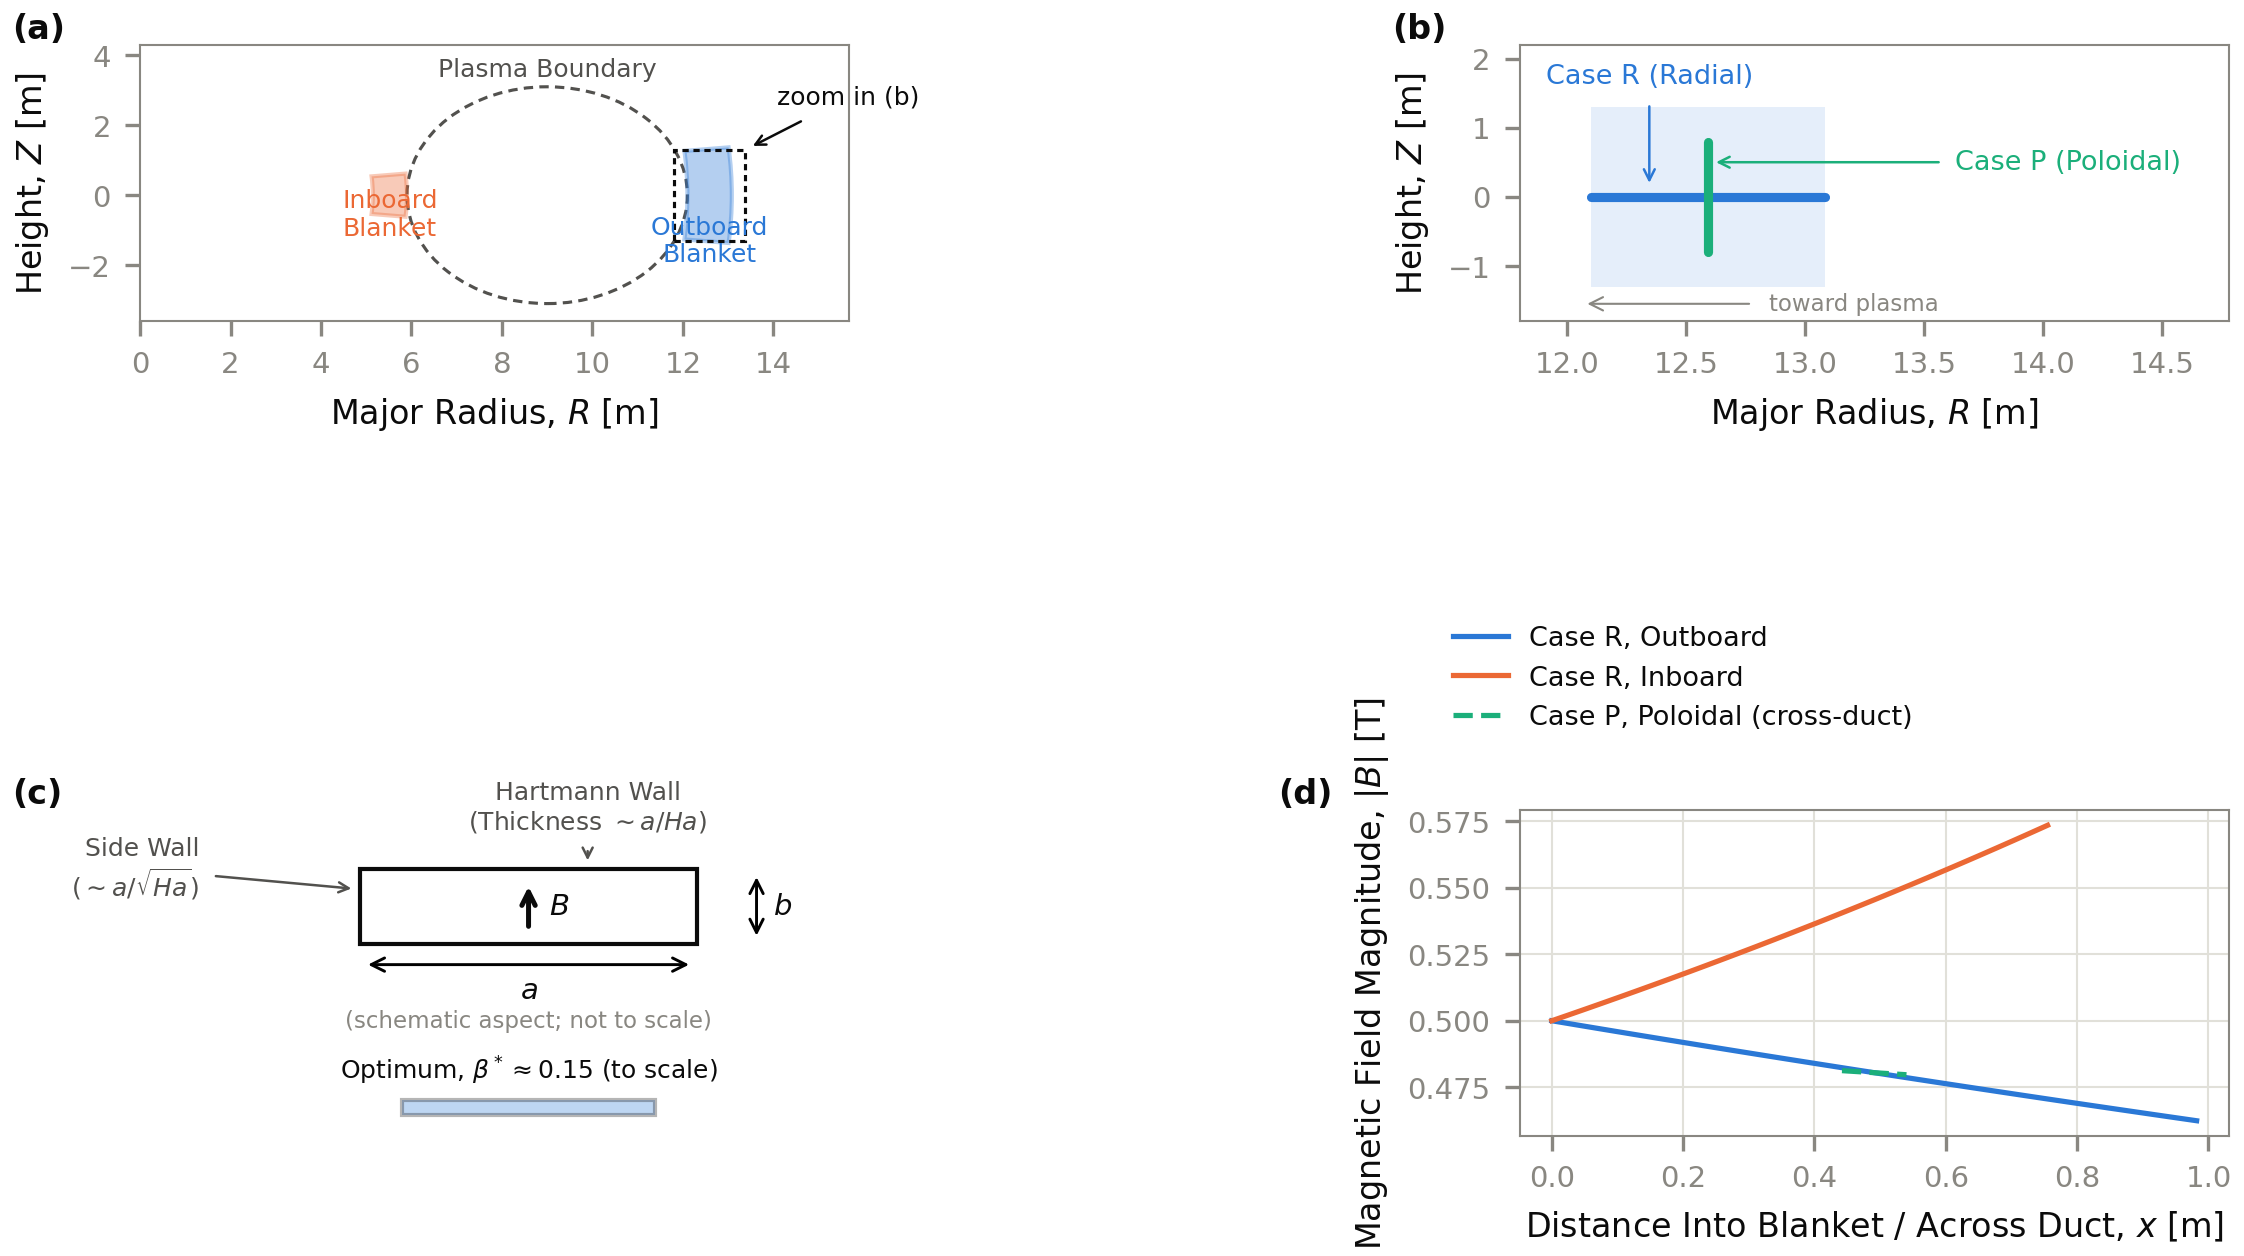
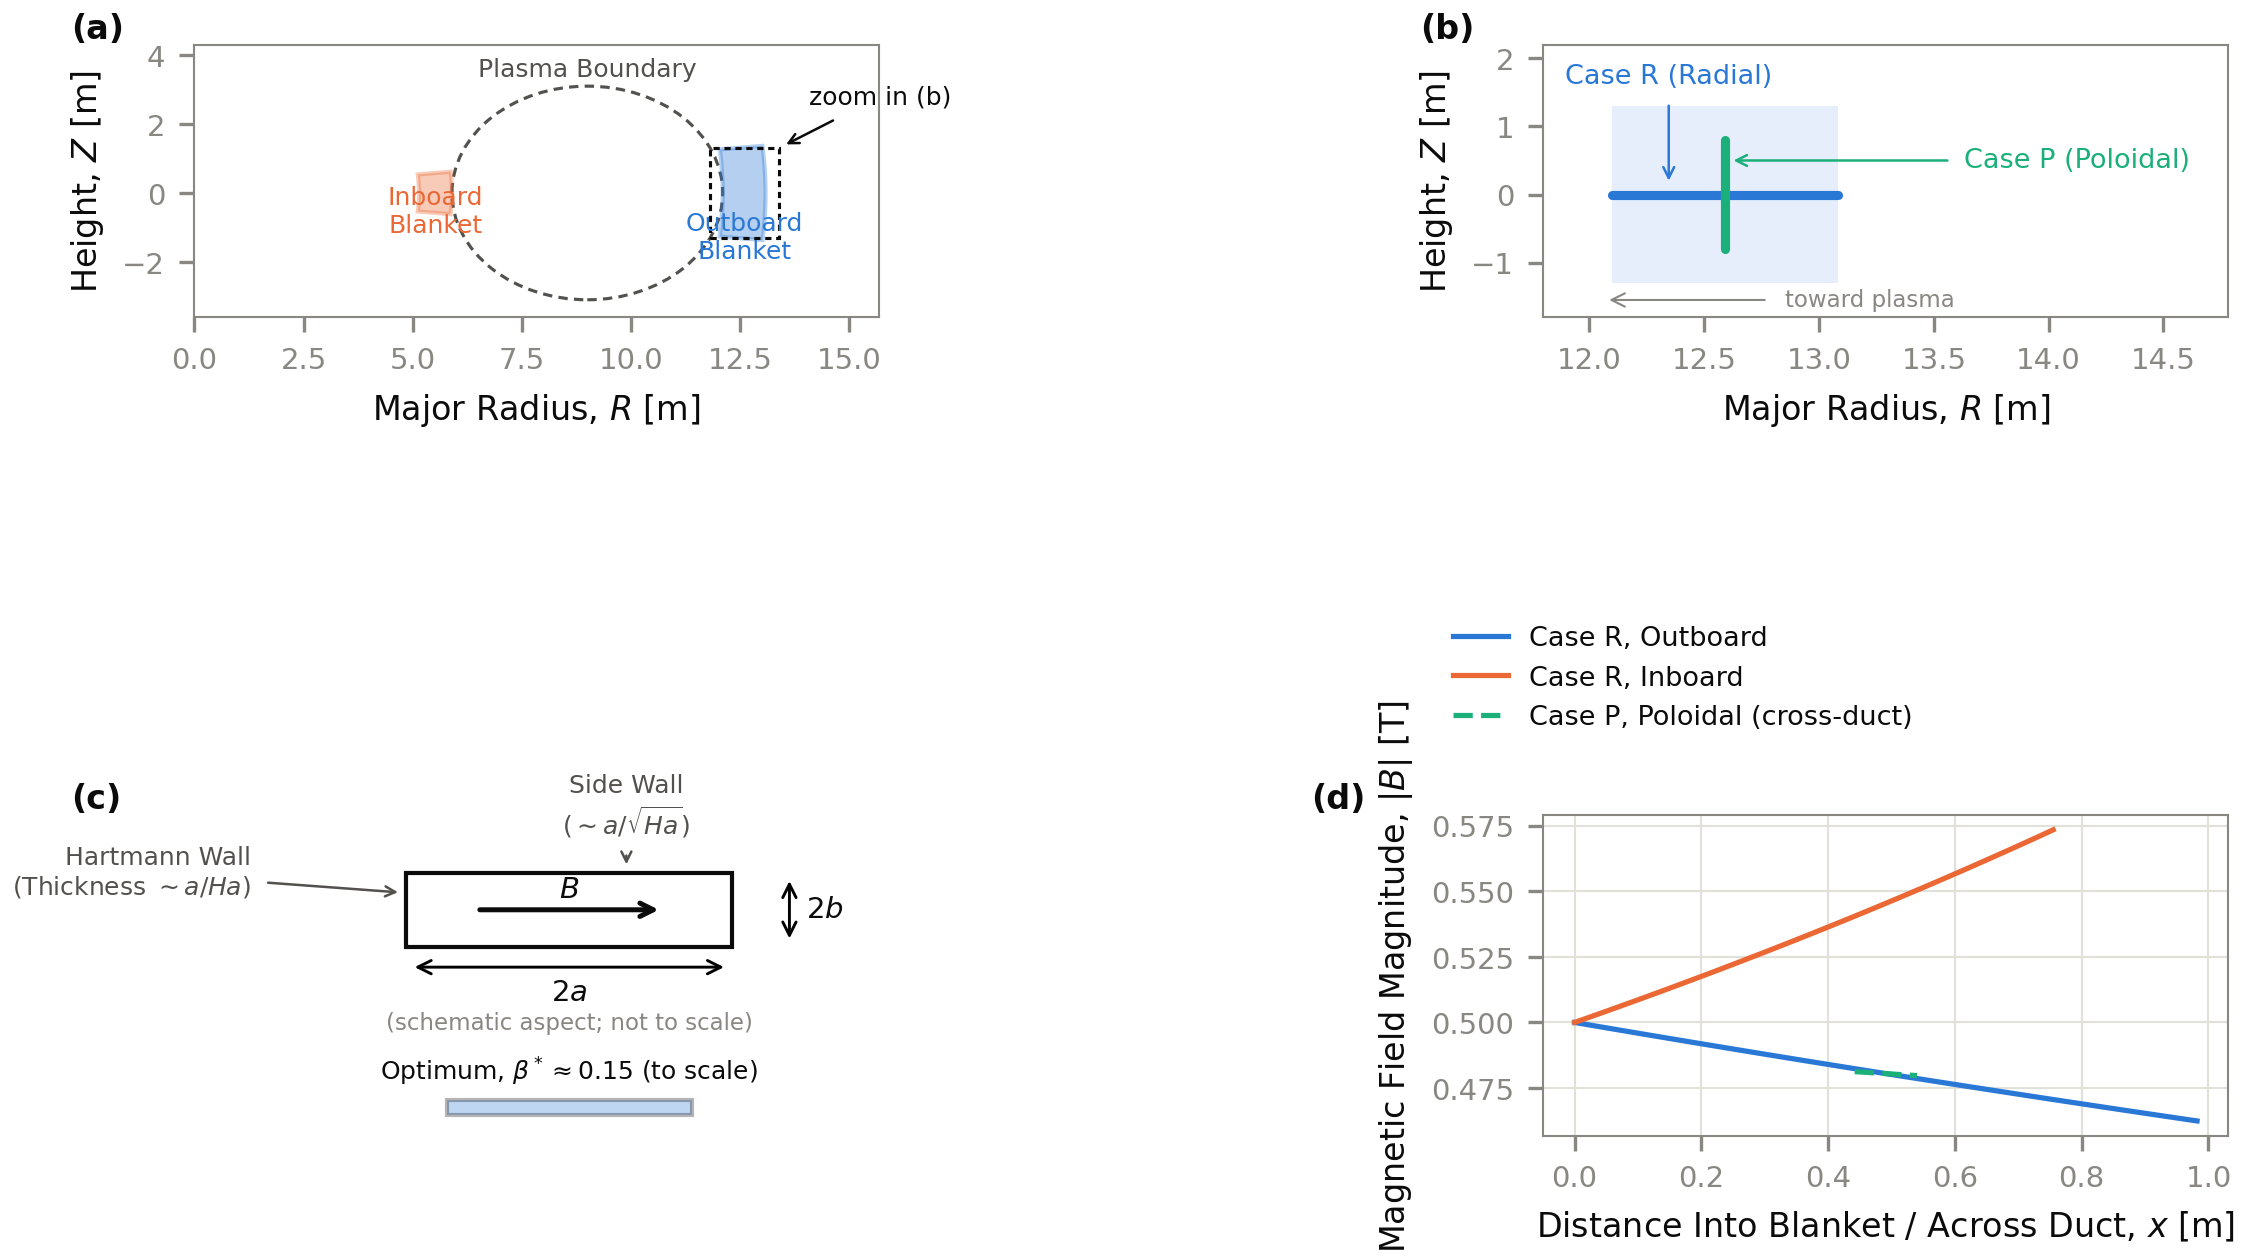
Fix three errors in the Stage 2 record: F1 panel (c), the F8 caption, and 0.37 -> 0.36 %
6 files changed, 16 insertions(+), 16 deletions(-). No result changes; no run repeated. The release stage2-v1 (6125eac) stays as published;
these corrections are on main after it.

1. F1 panel (c), the cross-section convention, drew the field B vertical while labelling the
   half-width a (along B) horizontal and drawing the to-scale optimum long and flat, which put the
   optimum's long side across the field. B now points along a (horizontal), so the Hartmann walls,
   normal to B, are the left and right walls and the side walls are top and bottom; the callouts
   follow. The dimension arrows span the full width, so they now read 2a and 2b (a and b are
   half-widths). Only F1_geometry.pdf/.png were regenerated; every other figure and table is
   unchanged (restored after the run, since a rerun rewrites PDF timestamps).
2. The Taylor-test panel of F8 is the outboard optimum at V_min = 2 mm/s (the first Pareto row),
   not the default point its caption named: fixed in duct_opt_figures.py, captions.md, README.md
   and report.html.
3. The largest change of beta* on re-optimizing from 48/6 to 72/9 cells is 0.36 % when computed
   from the stored values (Case R inboard, 2 mm/s); the README and report said 0.37 %, computed
   from rounded table entries. The 1 %-on-W and 3 %-on-beta* limits are unaffected.

diff --git a/results/stage2/report.html b/results/stage2/report.html
@@ -368,12 +368,12 @@
     <div class="kicker">04 — Verification</div>
     <h2>Mesh-converged and within 1% of an independent solver</h2>
     <p>The area gradient is exact (JAX autodiff through the traced <code>field_scale</code>). A Taylor remainder test [<a href="#ref-o10">O10</a>] confirms it at all 13 Pareto points: the zeroth-order remainder falls as <i class="v">O</i>(<i class="v">h</i>) and the gradient-corrected one as <i class="v">O</i>(<i class="v">h</i>²), with slopes of 1.00 and 2.00.</p>
-    <p>Re-optimized on 32/4, 48/6 and 72/9 cells (Table 5), every point converges at the observed order 2.00–2.01 for <i class="v">β</i>* and 1.93–1.97 for <i class="v">W</i>*, with a GCI on <i class="v">β</i>* of 0.19–0.36%. From 48/6 to 72/9, <i class="v">β</i>* moves at most 0.37% and <i class="v">W</i>* at most 0.44%, inside the registered limits of 3% and 1%. A separate check at each 48/6 optimum on 96/9 cells moves <i class="v">W</i> by 0.34–0.59%.</p>
+    <p>Re-optimized on 32/4, 48/6 and 72/9 cells (Table 5), every point converges at the observed order 2.00–2.01 for <i class="v">β</i>* and 1.93–1.97 for <i class="v">W</i>*, with a GCI on <i class="v">β</i>* of 0.19–0.36%. From 48/6 to 72/9, <i class="v">β</i>* moves at most 0.36% and <i class="v">W</i>* at most 0.44%, inside the registered limits of 3% and 1%. A separate check at each 48/6 optimum on 96/9 cells moves <i class="v">W</i> by 0.34–0.59%.</p>
     <p>Against the spectral reference, the core's <i class="v">W</i> at its own <i class="v">β</i>* is 0.48–0.79% low at all 11 verified points (limit 1%), worst at 2 mm/s; the reference's own <i class="v">β</i>* lies 0.15–0.3% below the 72/9 core's, consistent with the Richardson limit. For the design law, the reference is converged to 10⁻⁸ between 48 and 80 collocation points up to <i class="v">Ha</i>* 1,229, and between 64 and 80 points to 5×10⁻⁷ and 8×10⁻⁵ at 2,427 and 6,109.</p>
     <p>The tilt-aware law meets its own registered exits: from 48/6 to 72/9 cells <i class="v">β</i>* moves at most 0.66% and Δ<i class="v">p</i>* 0.68%; a dense spectral solve with both field components agrees with the core within 0.54% on 48/6 cells (<i class="v">Ha</i> 30–100, five cases); and the collapse holds within 5% against a 10% limit.</p>
     <figure>
       <img src="figures/F8_verification.png" alt="Taylor remainder test and the change on re-optimizing on a finer mesh">
-      <figcaption><b>Figure 9.</b> (a) Taylor test at Case R outboard's default optimum. (b) The change of <i class="v">W</i>* (solid) and <i class="v">β</i>* (dashed) when each Case R Pareto point is re-optimized from 48/6 to 72/9 cells; the limits are 1% and 3%.</figcaption>
+      <figcaption><b>Figure 9.</b> (a) Taylor test at Case R outboard's optimum for <i class="v">V</i><sub>min</sub> = 2 mm/s. (b) The change of <i class="v">W</i>* (solid) and <i class="v">β</i>* (dashed) when each Case R Pareto point is re-optimized from 48/6 to 72/9 cells; the limits are 1% and 3%.</figcaption>
     </figure>
     <div class="callout warn">
       <span class="tag">Two exits met only in part</span>

diff --git a/duct_opt_figures.py b/duct_opt_figures.py
@@ -305,22 +305,22 @@ def figure_f1(results: dict) -> None:
     ax.add_patch(plt.Rectangle((-half_a, -half_b), 2 * half_a, 2 * half_b, fill=False, ec=INK, lw=1.0))
     # b (height, across B): dimension line to the right of the duct
     ax.annotate("", xy=(1.35, -half_b), xytext=(1.35, half_b), arrowprops=dict(arrowstyle="<->", lw=0.7))
-    ax.text(1.45, 0, "$b$", va="center", ha="left", fontsize=7)
+    ax.text(1.45, 0, "$2b$", va="center", ha="left", fontsize=7)
     # a (width, along B): dimension line below the duct
     ax.annotate("", xy=(half_a, -0.85), xytext=(-half_a, -0.85), arrowprops=dict(arrowstyle="<->", lw=0.7))
-    ax.text(0, -1.02, "$a$", ha="center", va="top", fontsize=7)
-    # B direction: vertical arrow through the centre, label directly to its right at mid-height
+    ax.text(0, -1.02, "$2a$", ha="center", va="top", fontsize=7)
+    # B direction: along a (horizontal here), so the long side of the to-scale optimum below lies along B
     ax.annotate(
         "",
-        xy=(0, half_b * 0.75),
-        xytext=(0, -half_b * 0.75),
+        xy=(half_a * 0.6, 0),
+        xytext=(-half_a * 0.6, 0),
         arrowprops=dict(arrowstyle="->", lw=1.2, color=INK),
     )
-    ax.text(0.12, 0, "$B$", fontsize=7, va="center", ha="left")
-    # Hartmann walls (top, normal to B): callout above, with an arrowhead so it reads as
+    ax.text(0, 0.1, "$B$", fontsize=7, va="bottom", ha="center")
+    # side walls (top and bottom, parallel to B): callout above, with an arrowhead so it reads as
     # "pointing at the wall", not a stray line
     ax.annotate(
-        "Hartmann Wall\n(Thickness $\\sim a/Ha$)",
+        "Side Wall\n($\\sim a/\\sqrt{Ha}$)",
         xy=(0.35, half_b),
         xytext=(0.35, 1.05),
         ha="center",
@@ -329,9 +329,9 @@ def figure_f1(results: dict) -> None:
         color=INK_SECONDARY,
         arrowprops=dict(arrowstyle="->", lw=0.6, color=INK_SECONDARY),
     )
-    # side walls: callout to the LEFT (the b-dimension arrow already occupies the right side)
+    # Hartmann walls (left and right, normal to B): callout to the LEFT (the b-dimension arrow occupies the right)
     ax.annotate(
-        "Side Wall\n($\\sim a/\\sqrt{Ha}$)",
+        "Hartmann Wall\n(Thickness $\\sim a/Ha$)",
         xy=(-half_a, 0.25),
         xytext=(-1.95, 0.55),
         ha="right",
@@ -1177,7 +1177,7 @@ def figure_f8(results: dict) -> None:
     ]
     caption = (
         "Verification. (a) Taylor remainder test (Farrell et al. 2013 [O10]) "
-        "at Case R outboard's default optimum: the zeroth-order remainder falls "
+        "at Case R outboard's optimum for $V_\\mathrm{min}$ = 2 mm/s: the zeroth-order remainder falls "
         "as $O(h)$ and the gradient-corrected remainder as $O(h^2)$ (dotted "
         "guides), confirming the exact gradient in the area. (b) The change of $W^*$ (solid) and $\\beta^*$ "
         "(dashed) when each Pareto point is re-optimized on the finer mesh (48/6 to 72/9 cells, a ratio of 1.5); "

diff --git a/results/stage2/captions.md b/results/stage2/captions.md
@@ -14,7 +14,7 @@
 
 **F7_validity_map.** The validity map: 3-D excess pressure drop over the locally fully developed sum, against $\gamma\sqrt{Ha}$ with $\gamma=a|dB/dx|/B$ (Tier 0 mislabelled it, R1). Filled: an open duct in a monotone 20 % sine ramp of $B_y$ (TM-228's field, buffers of 15 and 10 half-widths, the 1.9d method, Stokes limit). Hollow rings: 72/9 cross-section cells and half the axial spacing. Triangles: the periodic-modulation construction of Tier 0 at Ha 50 (10 % amplitude, 24 cells); its flattening below 0.01 % is taken to be that mesh's floor, not physics. 0 of 16 refinements move the excess by more than 10 %. The excess does not collapse on $\gamma\sqrt{Ha}$ across Ha 50 and 200 (Table T5); the shaded band is the reactor estimate.
 
-**F8_verification.** Verification. (a) Taylor remainder test (Farrell et al. 2013 [O10]) at Case R outboard's default optimum: the zeroth-order remainder falls as $O(h)$ and the gradient-corrected remainder as $O(h^2)$ (dotted guides), confirming the exact gradient in the area. (b) The change of $W^*$ (solid) and $\beta^*$ (dashed) when each Pareto point is re-optimized on the finer mesh (48/6 to 72/9 cells, a ratio of 1.5); the exit limits are 1 % and 3 %.
+**F8_verification.** Verification. (a) Taylor remainder test (Farrell et al. 2013 [O10]) at Case R outboard's optimum for $V_\mathrm{min}$ = 2 mm/s: the zeroth-order remainder falls as $O(h)$ and the gradient-corrected remainder as $O(h^2)$ (dotted guides), confirming the exact gradient in the area. (b) The change of $W^*$ (solid) and $\beta^*$ (dashed) when each Pareto point is re-optimized on the finer mesh (48/6 to 72/9 cells, a ratio of 1.5); the exit limits are 1 % and 3 %.
 
 **F9_tilt_law.** The tilt-aware design law: the fixed-area optimum of a duct in a field tilted by $B_p/B_T$ in the cross-section (insulating walls, 32/4, 48/6 and 72/9 cells; the finest mesh is plotted, and 48/6 to 72/9 moves $\beta^*$ by at most 0.7 % and $\Delta p^*$ by at most 0.7 %). (a) The optimal aspect ratio relative to the aligned one and (b) the penalty of the retuned optimum collapse on $\kappa=\sqrt{Ha^*_0}\,B_p/B_T$ across $Ha^*_0=58$-$6{,}127$ to within 5 % (dashed: $\beta^{*2}=\beta_0^{*2}+(B_p/B_T)^2$ and a two-parameter fit of the penalty, both fitted here). (c) Keeping the aligned optimum's shape in a tilted field, against the equal-area square, which barely responds to tilt (0.1-0.5 % at $B_p/B_T\le0.2$): the aligned shape loses to the square above the crossing.
 

diff --git a/results/stage2/README.md b/results/stage2/README.md
@@ -277,7 +277,7 @@ At <i>R</i><sub>c</sub>/<i>a</i> = 629, the exact 1/<i>R</i> field changes the f
 
 The area gradient is exact (JAX autodiff through the traced `field_scale`). A Taylor remainder test [<a href="#ref-o10">O10</a>] confirms it at all 13 Pareto points: the zeroth-order remainder falls as <i>O</i>(<i>h</i>) and the gradient-corrected one as <i>O</i>(<i>h</i>²), with slopes of 1.00 and 2.00.
 
-Re-optimized on 32/4, 48/6 and 72/9 cells (Table 5), every point converges at the observed order 2.00–2.01 for <i>β</i>\* and 1.93–1.97 for <i>W</i>\*, with a GCI on <i>β</i>\* of 0.19–0.36%. From 48/6 to 72/9, <i>β</i>\* moves at most 0.37% and <i>W</i>\* at most 0.44%, inside the registered limits of 3% and 1%. A separate check at each 48/6 optimum on 96/9 cells moves <i>W</i> by 0.34–0.59%.
+Re-optimized on 32/4, 48/6 and 72/9 cells (Table 5), every point converges at the observed order 2.00–2.01 for <i>β</i>\* and 1.93–1.97 for <i>W</i>\*, with a GCI on <i>β</i>\* of 0.19–0.36%. From 48/6 to 72/9, <i>β</i>\* moves at most 0.36% and <i>W</i>\* at most 0.44%, inside the registered limits of 3% and 1%. A separate check at each 48/6 optimum on 96/9 cells moves <i>W</i> by 0.34–0.59%.
 
 Against the spectral reference, the core's <i>W</i> at its own <i>β</i>\* is 0.48–0.79% low at all 11 verified points (limit 1%), worst at 2 mm/s; the reference's own <i>β</i>\* lies 0.15–0.3% below the 72/9 core's, consistent with the Richardson limit. For the design law, the reference is converged to 10⁻⁸ between 48 and 80 collocation points up to <i>Ha</i>\* 1,229, and between 64 and 80 points to 5×10⁻⁷ and 8×10⁻⁵ at 2,427 and 6,109.
 
@@ -285,7 +285,7 @@ The tilt-aware law meets its own registered exits: from 48/6 to 72/9 cells <i>β
 
 ![Taylor remainder test and the change on re-optimizing on a finer mesh](figures/F8_verification.png)
 
-<b>Figure 9.</b> (a) Taylor test at Case R outboard's default optimum. (b) The change of <i>W</i>\* (solid) and <i>β</i>\* (dashed) when each Case R Pareto point is re-optimized from 48/6 to 72/9 cells; the limits are 1% and 3%.
+<b>Figure 9.</b> (a) Taylor test at Case R outboard's optimum for <i>V</i><sub>min</sub> = 2 mm/s. (b) The change of <i>W</i>\* (solid) and <i>β</i>\* (dashed) when each Case R Pareto point is re-optimized from 48/6 to 72/9 cells; the limits are 1% and 3%.
 
 > [!WARNING]
 > **Two exits met only in part**
